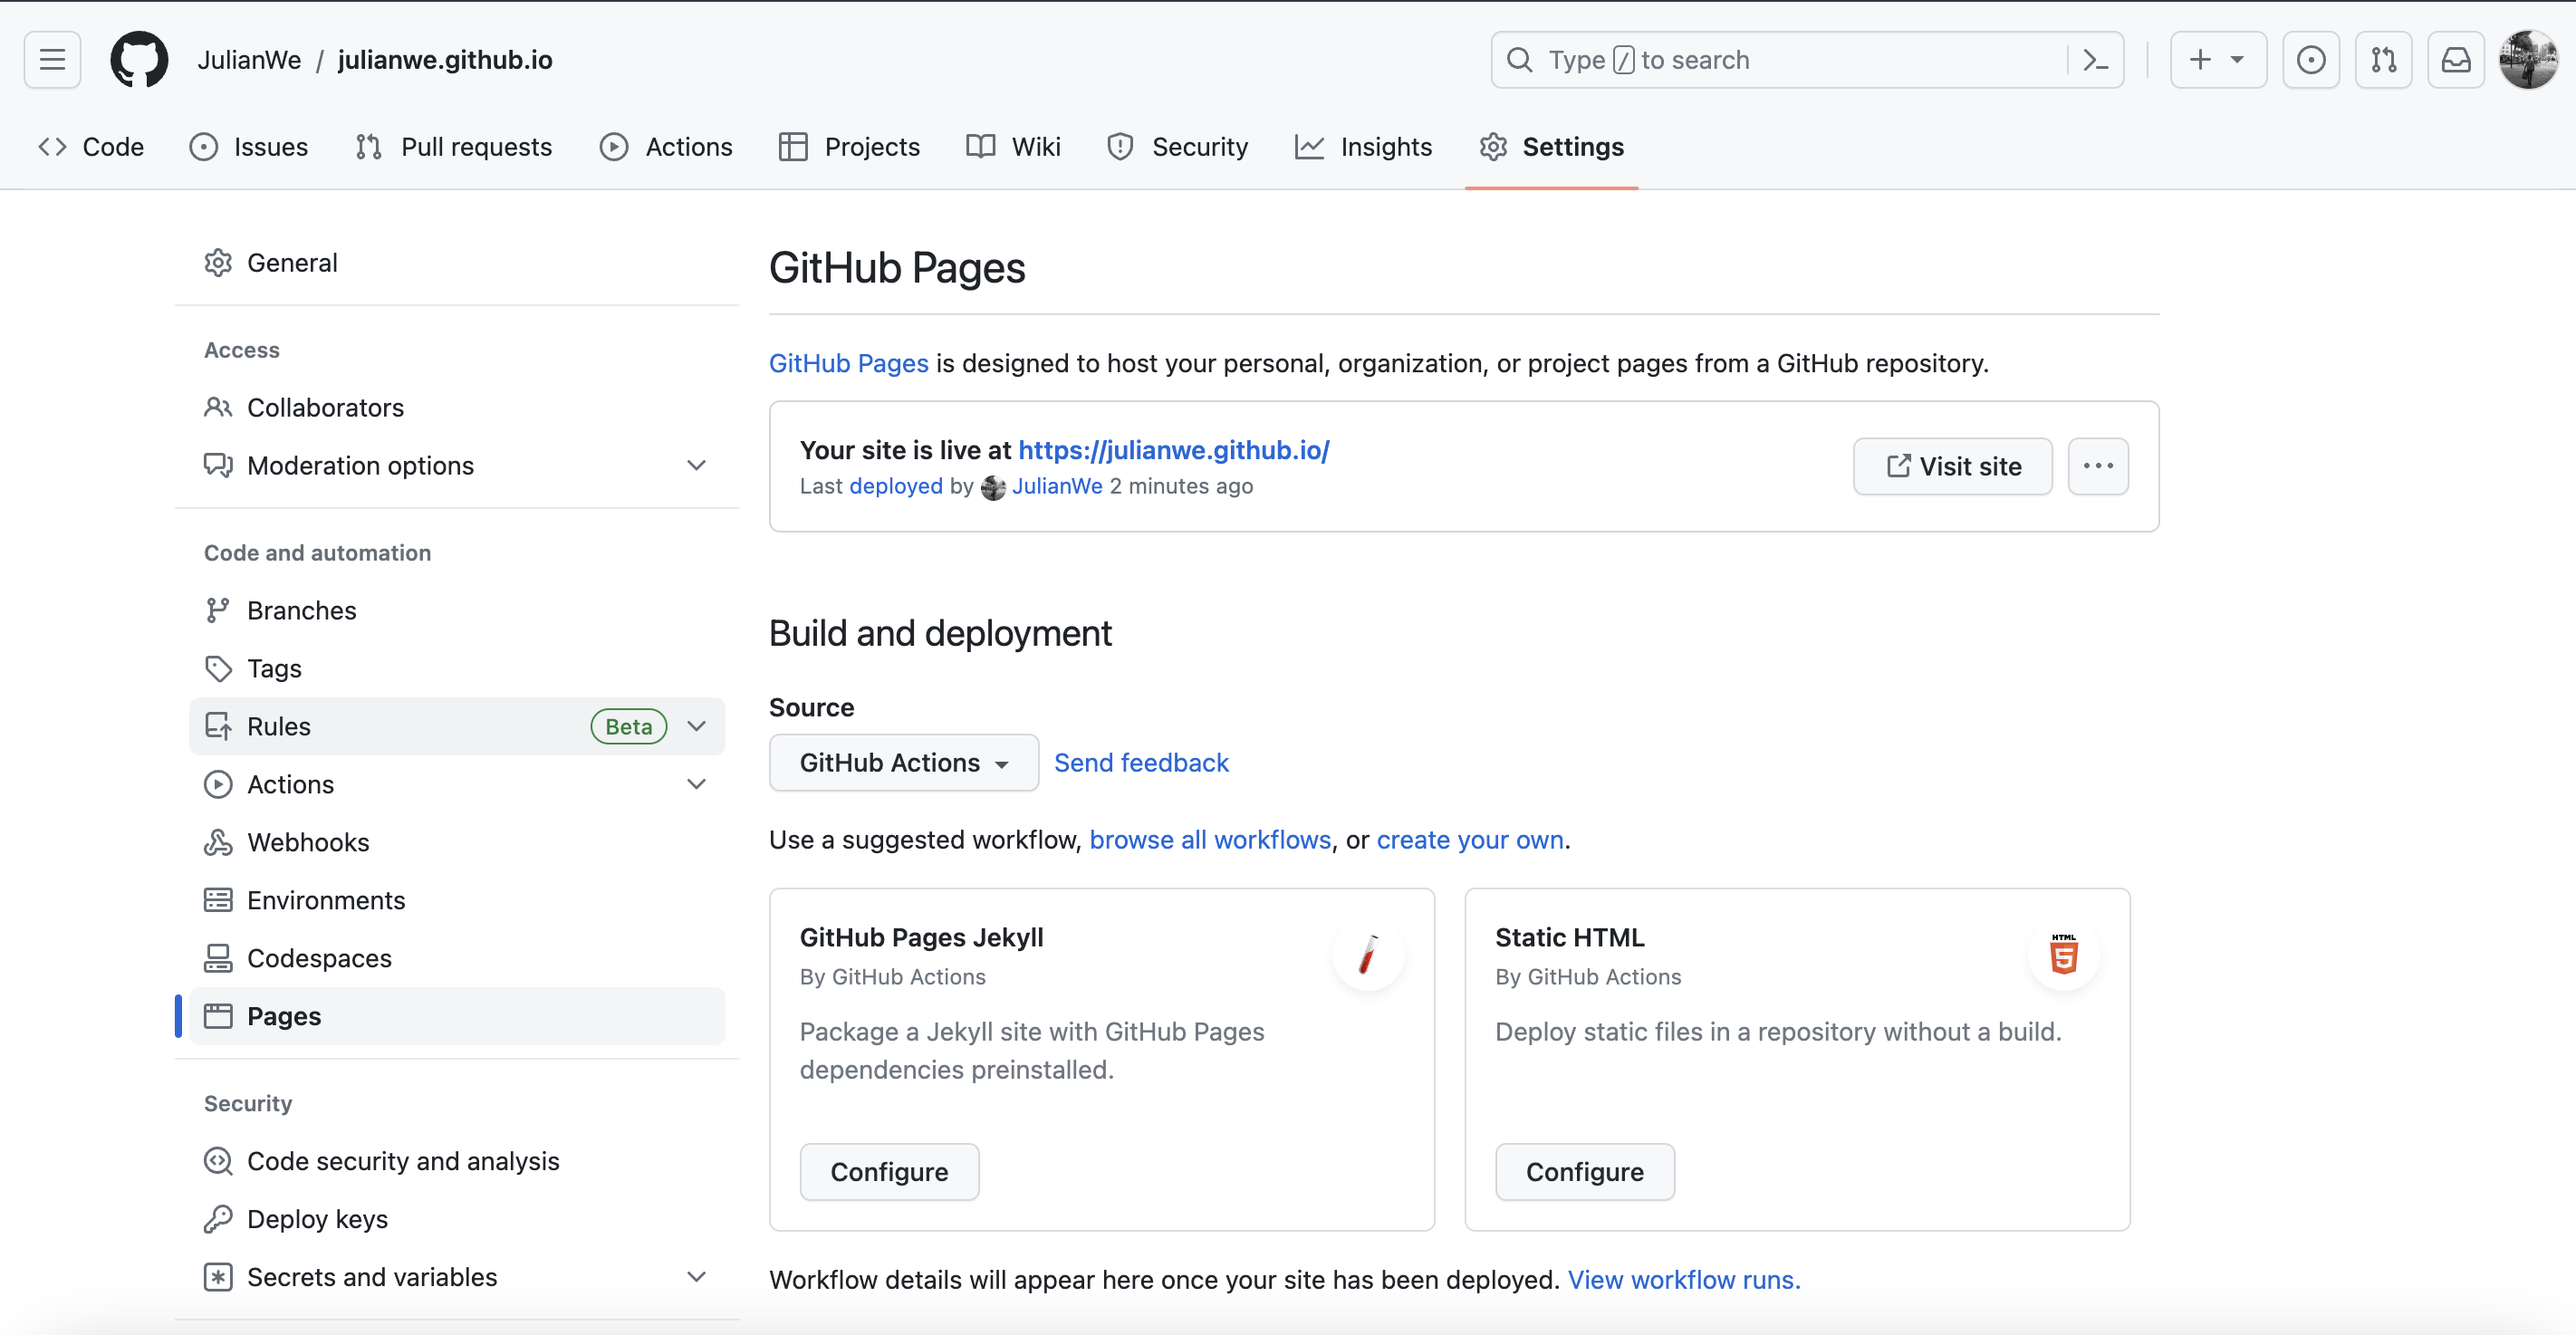
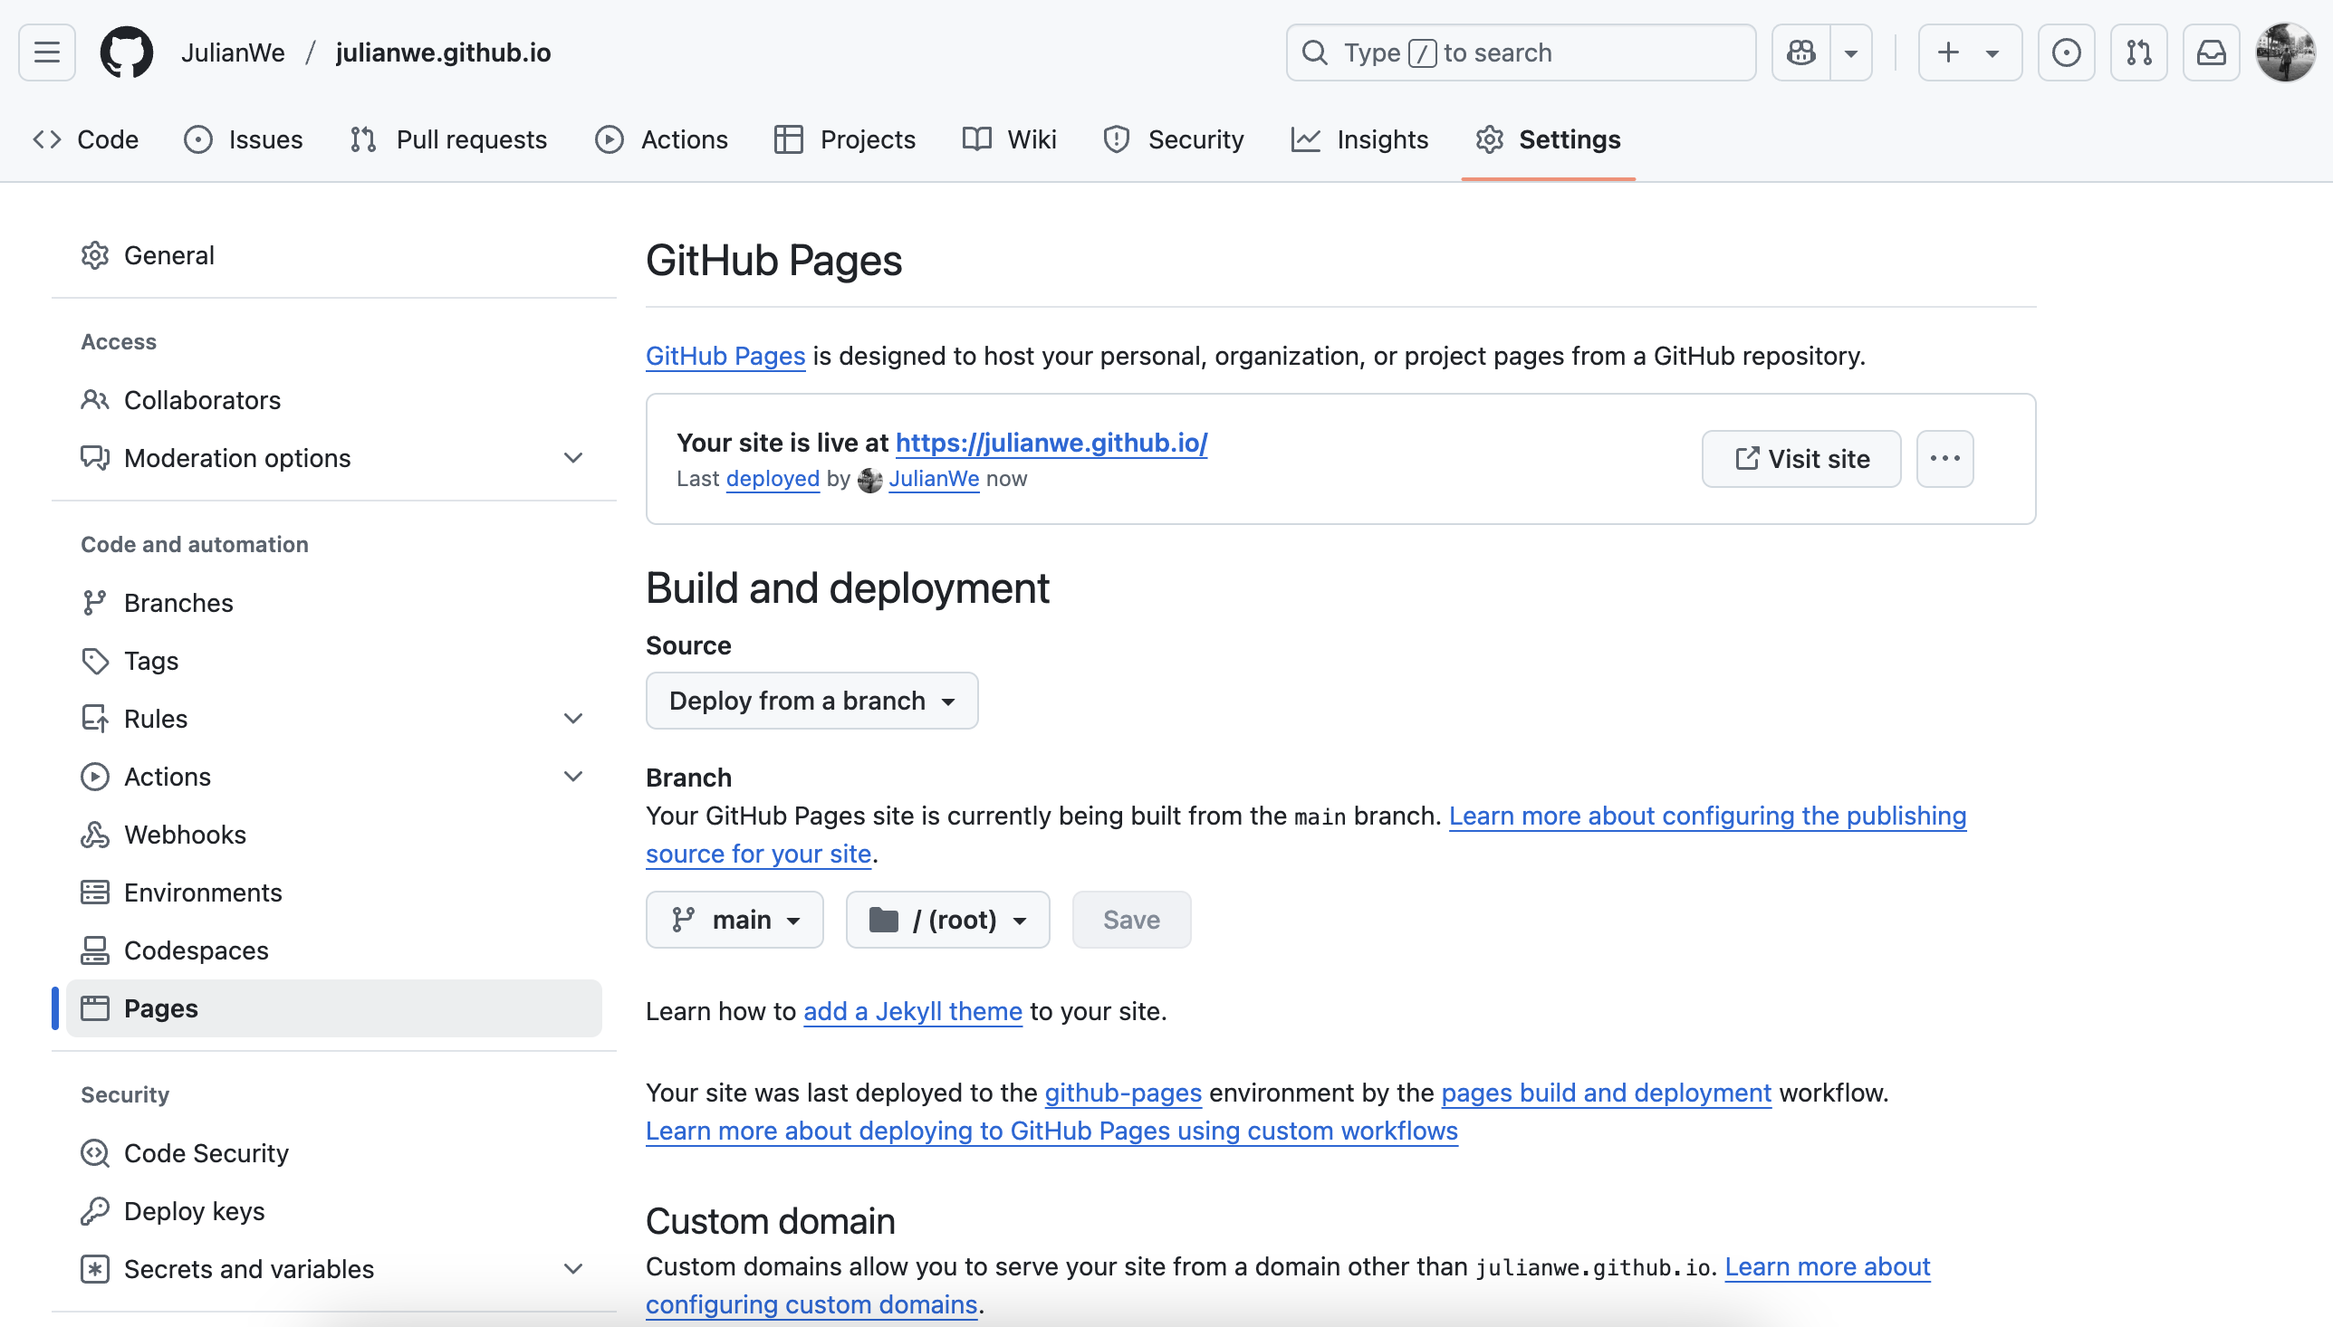
pages

diff --git a/ansible/roles/webpage/files/README.md b/ansible/roles/webpage/files/README.md
@@ -37,7 +37,7 @@ ansible-playbook playbooks/webpage.yml
 ```
 
 
-**How to build webserver with docker container**
+**how to build webserver with docker container**
 ```dockerfile
 FROM ubuntu:latest
 
@@ -54,8 +54,7 @@ CMD ["nginx", "-g", "daemon off;"]
 ```
 
 
-**Build HTML Blog using ansible**
-
+**convert reamdme files to html blogposts and create index.html file using ansible**
 ```yml
 ---
 - name: Include variables from a file
@@ -96,16 +95,6 @@ CMD ["nginx", "-g", "daemon off;"]
     dest: "{{ item.ansible_facts.file_path }}"
   delegate_to: localhost
   loop: "{{ html_files.results }}"
-...
-``` 
-
-**Build index.html file using ansible**
-```yml
----
-- name: Include variables from a file
-  include_vars:
-    file: "{{ path }}/roles/webpage/vars/main.yml"
-  register: vars
 
 - name: build index html file
   template:
@@ -115,28 +104,7 @@ CMD ["nginx", "-g", "daemon off;"]
 ...
 ``` 
 
+
+**make sure to select deploy from branch instead of GitHub Actions in repository settings https://github.com/username/username.github.io/settings/pages**
 ![](../files/images/pages.jpg)
 
-
-**Create .github/workflows/docker-image.yml Action file**
-
-```yml
-name: Docker Image CI
-
-on:
-  push:
-    branches: [ "main" ]
-  pull_request:
-    branches: [ "main" ]
-
-jobs:
-
-  build:
-
-    runs-on: ubuntu-latest
-
-    steps:
-    - uses: actions/checkout@v3
-    - name: Build the Docker image
-      run: docker build . --file Dockerfile --tag my-image-name:$(date +%s)
-``` 
